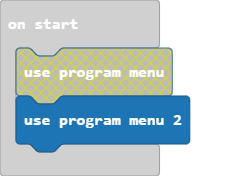
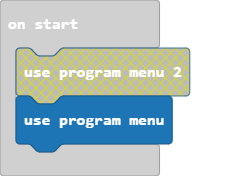
Update main.blocks, main.ts, custom.ts

Changed region(s): [[0.6942, 0.2557, 0.8099, 0.8239]]

diff --git a/custom.ts b/custom.ts
@@ -63,7 +63,13 @@ namespace cyberbot{
         let selection = 0
         led.plot(selection, 2)
         while (true) {
-            if (input.buttonIsPressed(Button.A)) {
+            if (input.buttonIsPressed(Button.AB)) {
+                basic.clearScreen();
+                execute(selection);
+                basic.clearScreen();
+                led.plot(selection, 2)
+            }
+            else if (input.buttonIsPressed(Button.A)) {
                 selection -= 1;
                 if (selection < 0) {selection = 0}
                 basic.clearScreen()
@@ -75,13 +81,8 @@ namespace cyberbot{
                 basic.clearScreen()
                 led.plot(selection, 2)
             } 
-            else if (input.buttonIsPressed(Button.AB)) {
-                basic.clearScreen();
-                execute(selection);
-                basic.clearScreen();
-                led.plot(selection, 2)
-            }
-            pause(50)
+
+            pause(250)
         }
         
     }

diff --git a/main.ts b/main.ts
@@ -6,4 +6,4 @@ cyberbot.setProgram(BotMenu.Program1, function () {
     basic.showIcon(IconNames.Heart)
     basic.pause(1000)
 })
-cyberbot.useProgramMenu2()
+cyberbot.useProgramMenu()
